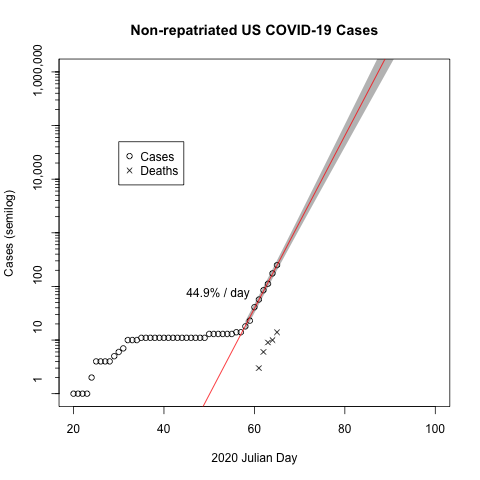
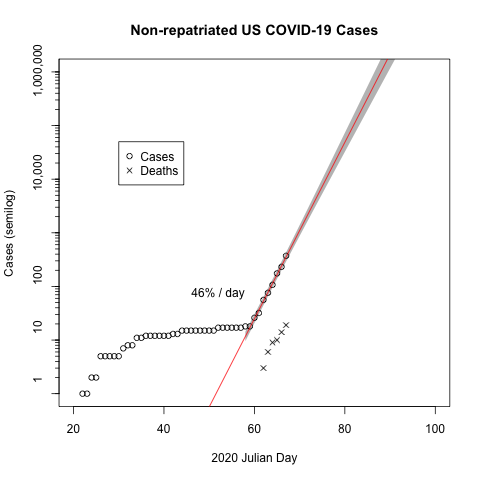
Changed US data source to John Hopkins

diff --git a/README.md b/README.md
@@ -5,8 +5,12 @@ Short bit of code to look at cases for China and US on semi-log scale. Why the c
 
 ![China Data](./China.png)
 
+China data was taken from their official NHC website.
+
 The China data shows a clear effect of the quarantine. The estimated slope of the top plateau is shrinking a bit every day. Not shown is that to the left of the graph there is noise similar to the US plot.
 
 ![US Data](./us.png)
 
-Exponential prediction is based on assumption that nothing occurs to change the current growth rate. This is obviously false, as the China data shows. The question is how effective will measures be and when will measures be put in place to curtail such growth.
+US Data is comes from John Hopkins. CDC data quality post Trump intervention has become unreliable.
+
+Exponential prediction is based on assumption that nothing occurs to change the current growth rate. This is obviously false, as the China data shows. The question is when will measures be put in place, how effective will they be or are we just going to wait for saturation to happen.
